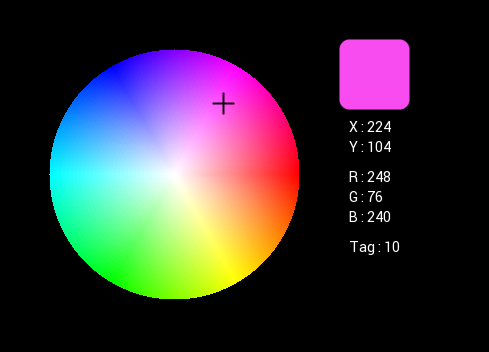
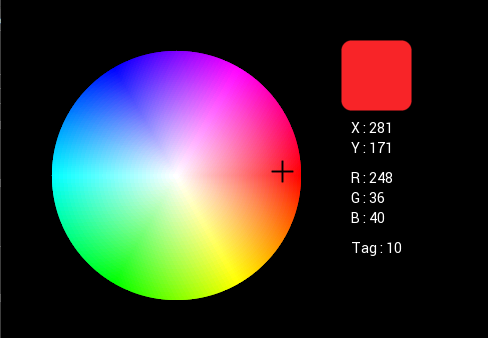
Update colourpicker example to add aliasing mask to image

diff --git a/examples/colourpicker/common/eve_example.c b/examples/colourpicker/common/eve_example.c
@@ -1,5 +1,5 @@
 /**
- @file eve_example.c
+ * @file eve_example.c
  */
 /*
  * ============================================================================
@@ -8,7 +8,7 @@
  *
  * This source code ("the Software") is provided by Bridgetek Pte Ltd
  * ("Bridgetek") subject to the licence terms set out
- * https://brtchip.com/wp-content/uploads/2021/11/BRT_Software_License_Agreement.pdf ("the Licence Terms").
+ * http://brtchip.com/BRTSourceCodeLicenseAgreement/ ("the Licence Terms").
  * You must read the Licence Terms before downloading or using the Software.
  * By installing or using the Software you agree to the Licence Terms. If you
  * do not agree to the Licence Terms then do not download or use the Software.
@@ -37,6 +37,8 @@
  * ============================================================================
  */
 
+/* INCLUDES ************************************************************************/
+
 #include <stdint.h>
 #include <string.h>
 #include <stdarg.h>
@@ -47,6 +49,8 @@
 #include <EVE.h> 
 
 #include "eve_example.h"
+
+/* CONSTANTS ***********************************************************************/
 
 // Configuration
 
@@ -73,11 +77,11 @@
 #define WHEEL_TAG       10
 #define TAG_BACKGROUND  255
 
-// Local Storage
+/* LOCAL VARIABLES *****************************************************************/
 
 static WHEEL_STORAGE wheelline[WHEEL_SIZE];
 
-// Local Functions
+/* LOCAL FUNCTIONS / INLINES *******************************************************/
 
 // Convert RGB8 to RGB565
 static uint16_t rgb888_to_rgb565(uint8_t r, uint8_t g, uint8_t b)
@@ -197,6 +201,8 @@ static void generate_colour_wheel(void)
     }
 }
 
+/* FUNCTIONS ***********************************************************************/
+
 void eve_display(void)
 {
     // Colour wheel position on screen
@@ -232,68 +238,89 @@ void eve_display(void)
         EVE_CLEAR_TAG(TAG_BACKGROUND);
         // Clear the screen with black
         EVE_CLEAR_COLOR_RGB(0, 0, 0);
-        EVE_CLEAR(1,1,1);
+        // clear colour, tag, stencil
+        EVE_CLEAR(1, 1, 1);
         // Ensure following items are not tagged
         EVE_TAG_MASK(0);
 
-        // Return colour to white for following objects.
-        // Colour must be white to ensure images are displayed in their original colours
-        EVE_COLOR_RGB(255,255,255);
+        // The generated colour wheel bitmap has a hard, non-anti-aliased round edge.
+        // To smooth the edge, we draw an invisible circle and use blending so that the bitmap is
+        // visible only within the circle. This gives the colour wheel a cleaner, anti-aliased outline.
+        // The same technique can also be applied to other shapes, such as lines and rectangles.
+
+        // Alpha mask on only
+        EVE_COLOR_MASK(0, 0, 0, 1);
+        // Draw points
+        EVE_BEGIN(EVE_BEGIN_POINTS);
+        // Draw circle diameter of colour picker wheel
+        EVE_POINT_SIZE((WHEEL_SIZE / 2) * 16);
+        // Position at the center of where the colour picker will be (colour picker is 250x250)
+        EVE_VERTEX2F((image_x + (WHEEL_SIZE / 2)) * 16, (image_y + (WHEEL_SIZE / 2)) * 16);
+        // End points
+        EVE_END();
+
+        // Enable colours, alpha disabled
+        EVE_COLOR_MASK(1, 1, 1, 0);
+        // Blend the bitmap colours into the cicle present in the alpha bufffer
+        EVE_BLEND_FUNC(EVE_BLEND_DST_ALPHA, EVE_BLEND_ONE_MINUS_DST_ALPHA);
 
         // Place the colour picker circle at the coordinates defined previously
         EVE_BEGIN(EVE_BEGIN_BITMAPS);
         EVE_VERTEX2II(image_x, image_y, WHEEL_HANDLE, 0);
         EVE_END();
 
+        // Set the blending back to default so that any later items will not be affected
+        EVE_BLEND_FUNC(EVE_BLEND_SRC_ALPHA, EVE_BLEND_ONE_MINUS_SRC_ALPHA);		
+        // Re-enabble colours and alpha
+        EVE_COLOR_MASK(1, 1, 1, 1);
+
         // If screen has been touched outwith the colour picker, draw a red circle to alert user that they have touched invalid area
         // This will be a red ring with inner diameter 138 and outer diameter of 142
         // This is updated after the display list and so uses the value here on the next time the screen is rendered
-        // NOTE: This is before the colour picker is drawn in the display list and so the colour picker image will be on top of it
-        // Therefore, there is no need to make the center of the red circle transparent
         if (tag_outofrange)
         {
+            //save graphics context
+            EVE_SAVE_CONTEXT();
+
             // Alpha mask on only
             EVE_COLOR_MASK(0, 0, 0, 1);
             EVE_COLOR_A(255);
-            // Clear the stencil
-            EVE_CLEAR(0, 1, 0);
+            // Clear the colour buffer
+            EVE_CLEAR(1, 0, 0);
 
             // Draw points
             EVE_BEGIN(EVE_BEGIN_POINTS);
 
-            // Draw stencil for outside part of circle
-            EVE_STENCIL_OP(EVE_STENCIL_INCR, EVE_STENCIL_INCR);
-            EVE_ALPHA_FUNC(EVE_TEST_GREATER, 0);
-
+            // Add shape into alpha buffer
+            EVE_BLEND_FUNC(EVE_BLEND_ONE, EVE_BLEND_ONE_MINUS_SRC_ALPHA);
             // Draw circle diameter slightly larger than colour picker circle
             EVE_POINT_SIZE(((WHEEL_SIZE / 2) + 10) * 16);
             // Position at the center of where the colour picker will be (colour picker is 250x250)
             EVE_VERTEX2F((image_x + (WHEEL_SIZE / 2)) * 16, (image_y + (WHEEL_SIZE / 2)) * 16);
 
-            // Clear stencil for internal part of circle
-            EVE_STENCIL_OP(EVE_STENCIL_KEEP, EVE_STENCIL_INCR);
+            // Remove shape from alpha buffer
+            EVE_BLEND_FUNC(EVE_BLEND_ZERO, EVE_BLEND_ONE_MINUS_SRC_ALPHA);
             // Draw a circle diameter slightly smaller than the outer circle
             EVE_POINT_SIZE(((WHEEL_SIZE / 2) + 1) * 16);
             // Draw the circle at the center of where the colour picker will be
             EVE_VERTEX2F((image_x + (WHEEL_SIZE / 2)) * 16, (image_y + (WHEEL_SIZE / 2)) * 16);
-    
+
             // Turn the colour back on
             EVE_COLOR_MASK(1, 1, 1, 1);
+            // Blend into the shape we created in the alpha buffer
+            EVE_BLEND_FUNC(EVE_BLEND_DST_ALPHA, EVE_BLEND_ONE_MINUS_DST_ALPHA);
             // Draw in red
             EVE_COLOR_RGB(255, 0, 0);
-            // Set the operation to draw within the stencil
-            EVE_STENCIL_OP(EVE_STENCIL_KEEP, EVE_STENCIL_KEEP);
-            EVE_STENCIL_FUNC(EVE_TEST_EQUAL, 1, 255);
+            // Set the operation to draw 
             EVE_POINT_SIZE(((WHEEL_SIZE / 2) + 10) * 16);
+            // Draw the circle at the center of where the colour picker will be
             EVE_VERTEX2F((image_x + (WHEEL_SIZE / 2)) * 16, (image_y + (WHEEL_SIZE / 2)) * 16);
 
-            // Finish with stencil
-            EVE_STENCIL_FUNC(EVE_TEST_ALWAYS, 1, 255);
-            // Finish drawing circles
+            // Finish drawing points
             EVE_END();
-            
-            // Restore colour to white
-            EVE_COLOR_RGB(255,255,255);
+
+            // Restore graphics context
+            EVE_RESTORE_CONTEXT();
         }
 
         // Print some details for debugging purposes
@@ -346,7 +373,7 @@ void eve_display(void)
         // Begin points
         EVE_BEGIN(EVE_BEGIN_POINTS);
         // Disable writes to the R, G and B and so draw to the alpha buffer only
-        EVE_COLOR_MASK(0,0,0,255);
+        EVE_COLOR_MASK(0, 0, 0, 1);
         // Draw a circle slightly smaller than the radius of the colour picker
         EVE_POINT_SIZE(((WHEEL_SIZE - 2) / 2) * 16);
         // Draw the circle at the center of where the colour picker will be
@@ -372,7 +399,7 @@ void eve_display(void)
         touch_y = (touch_xy & 0x0000FFFF);
         touch_x = ((touch_xy & 0xFFFF0000) >> 16);
 
-        if(tag_val ==10)
+        if(tag_val == 10)
         {
             uint32_t pixel_addr = 0;
             uint32_t pixel_val = 0;
@@ -404,8 +431,8 @@ void eve_display(void)
 #elif WHEEL_FORMAT == EVE_FORMAT_RGB332
             rgb332_to_rgb(pixel_val, &cr, &cg, &cb);
 #endif
-
-            touch_cursor_x = touch_x;// Also set the coordinate for the cursor (relative to the screen and not just the image)
+            // Also set the coordinate for the cursor (relative to the screen and not just the image)
+            touch_cursor_x = touch_x; 
             touch_cursor_y = touch_y;
         }
 
@@ -425,18 +452,30 @@ void eve_display(void)
     }
 }
 
+// Application Code begins here
 void eve_example(void)
 {
     // Initialise the display
-    EVE_Init();
+    EVE_DEBUG_PRINTF("Initialising display...\n");
+    if (EVE_Init() != 0)
+    {
+        EVE_DEBUG_ERROR("ERROR: EVE_Init() failed.\n");
+        while (1);
+    }
 
     // Calibrate the display
-    eve_calibrate();
+    EVE_DEBUG_PRINTF("Calibrating display...\n");
+    if (eve_calibrate() != 0)
+    {
+        EVE_DEBUG_ERROR("ERROR: eve_calibrate() failed.\n");
+    }
 
     // Generate a colour wheel in RAM_G
+    EVE_DEBUG_PRINTF("Generating Colour Wheel...\n");
     generate_colour_wheel();
 
     // Load the colour wheel as a bitmap into a handle
+    EVE_DEBUG_PRINTF("configuring Colour Wheel...\n");
     EVE_LIB_BeginCoProList();
     EVE_CMD_DLSTART();
     EVE_BEGIN(EVE_BEGIN_BITMAPS);
@@ -448,8 +487,7 @@ void eve_example(void)
     EVE_LIB_EndCoProList();
     EVE_LIB_AwaitCoProEmpty();
 
-    // Start the example code
-    eve_display();
-
-    while(1) {};
+    // Start example code
+    EVE_DEBUG_PRINTF("Starting demo:\n");
+    eve_display();          // Run Application
 }

diff --git a/examples/colourpicker/common/eve_example.h b/examples/colourpicker/common/eve_example.h
@@ -1,6 +1,6 @@
 /**
-    @file eve_example.h
- **/
+ * @file eve_example.h
+ */
 /*
  * ============================================================================
  * (C) Copyright,  Bridgetek Pte. Ltd.
@@ -8,7 +8,7 @@
  *
  * This source code ("the Software") is provided by Bridgetek Pte Ltd
  * ("Bridgetek") subject to the licence terms set out
- * https://brtchip.com/wp-content/uploads/2021/11/BRT_Software_License_Agreement.pdf ("the Licence Terms").
+ * http://brtchip.com/BRTSourceCodeLicenseAgreement/ ("the Licence Terms").
  * You must read the Licence Terms before downloading or using the Software.
  * By installing or using the Software you agree to the Licence Terms. If you
  * do not agree to the Licence Terms then do not download or use the Software.

diff --git a/examples/colourpicker/README.md b/examples/colourpicker/README.md
@@ -63,16 +63,32 @@ void eve_example(void)
     if (EVE_Init() != 0)
     {
         EVE_DEBUG_ERROR("ERROR: EVE_Init() failed.\n");
-        while(1);
+        while (1);
     }
-    
+
     // Calibrate the display
     EVE_DEBUG_PRINTF("Calibrating display...\n");
     if (eve_calibrate() != 0)
     {
         EVE_DEBUG_ERROR("ERROR: eve_calibrate() failed.\n");
-        while(1);
     }
+
+    // Generate a colour wheel in RAM_G
+    EVE_DEBUG_PRINTF("Generating Colour Wheel...\n");
+    generate_colour_wheel();
+
+    // Load the colour wheel as a bitmap into a handle
+    EVE_DEBUG_PRINTF("configuring Colour Wheel...\n");
+    EVE_LIB_BeginCoProList();
+    EVE_CMD_DLSTART();
+    EVE_BEGIN(EVE_BEGIN_BITMAPS);
+    EVE_BITMAP_HANDLE(WHEEL_HANDLE);
+    EVE_CMD_SETBITMAP(WHEEL_RAMG_ADDR, WHEEL_FORMAT, 250, 250);
+    EVE_BITMAP_SIZE(EVE_FILTER_NEAREST, EVE_WRAP_BORDER, EVE_WRAP_BORDER, 250, 250);
+    EVE_DISPLAY();
+    EVE_CMD_SWAP();
+    EVE_LIB_EndCoProList();
+    EVE_LIB_AwaitCoProEmpty();
 
     // Start example code
     EVE_DEBUG_PRINTF("Starting demo:\n");
